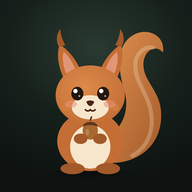
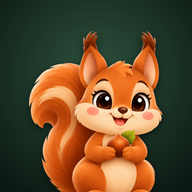
Nouvelle Noisette : illustration détourée, 3 expressions, icône et écran de lancement
Claude-Session: https://claude.ai/code/session_014Qi6w7k6VYht79wz9369HK

diff --git a/www/js/noisette.js b/www/js/noisette.js
@@ -1,129 +1,47 @@
-// Noisette — la mascotte de Planque (écureuil original, SVG animé).
+// Noisette — la mascotte de Planque.
+// Trois expressions (yeux ouverts, endormie, contente) superposées ; l'état choisit laquelle
+// est visible et quelle animation joue.
 // États : sleep (dort), awake (éveillée), think (réfléchit), stash (planque), happy (contente).
 // Règle de sécurité : ses réactions ne dépendent JAMAIS du coffre ouvert (vrai ou leurre).
 
-let uid = 0;
+const IMG = 'img/noisette/';
 
-export function noisetteSVG({ state = 'sleep', size = 180, label = 'Noisette, l’écureuil de Planque' } = {}) {
-  const id = `nz${++uid}`;
+export function noisetteHTML({ state = 'sleep', size = 160, label = 'Noisette, l’écureuil de Planque' } = {}) {
   return `
-<svg class="noisette is-${state}" viewBox="0 0 200 200" width="${size}" height="${size}" role="img" aria-label="${label}">
-  <defs>
-    <linearGradient id="${id}-tail" x1="0" y1="0" x2="1" y2="1">
-      <stop offset="0" stop-color="#E39552"/>
-      <stop offset="1" stop-color="#A3592A"/>
-    </linearGradient>
-    <radialGradient id="${id}-head" cx=".42" cy=".38" r=".75">
-      <stop offset="0" stop-color="#DE8A4B"/>
-      <stop offset="1" stop-color="#BF6A32"/>
-    </radialGradient>
-    <radialGradient id="${id}-shadow" cx=".5" cy=".5" r=".5">
-      <stop offset="0" stop-color="#000" stop-opacity=".35"/>
-      <stop offset="1" stop-color="#000" stop-opacity="0"/>
-    </radialGradient>
-  </defs>
-
-  <ellipse class="nz-shadow" cx="100" cy="190" rx="62" ry="8" fill="url(#${id}-shadow)"/>
-
-  <g class="nz-tail">
-    <path d="M112 176 C150 182 186 160 186 118 C186 86 162 76 164 52 C166 36 180 30 188 40
-             C192 20 170 8 152 18 C130 30 132 60 140 86 C148 112 138 140 106 152 Z"
-          fill="url(#${id}-tail)"/>
-    <path d="M150 168 C172 156 178 132 172 108 C166 86 152 74 154 52 C156 40 166 32 176 34"
-          fill="none" stroke="#F6E6CC" stroke-opacity=".28" stroke-width="5" stroke-linecap="round"/>
-  </g>
-
-  <g class="nz-body">
-    <ellipse cx="98" cy="150" rx="41" ry="37" fill="#C46E35"/>
-    <ellipse cx="98" cy="157" rx="25" ry="27" fill="#F6E6CC"/>
-    <ellipse cx="76" cy="184" rx="15" ry="7" fill="#A3592A"/>
-    <ellipse cx="120" cy="184" rx="15" ry="7" fill="#A3592A"/>
-
-    <g class="nz-head">
-      <g class="nz-ear nz-ear-l">
-        <path d="M66 74 C58 58 56 42 60 30 C70 36 80 48 86 62 Z" fill="#C46E35"/>
-        <path d="M68 66 C64 56 63 46 65 39 C71 44 76 52 79 60 Z" fill="#E9A08A" opacity=".8"/>
-        <path d="M59 33 C55 25 56 17 61 11 C61 18 64 25 67 31 Z" fill="#A3592A"/>
-      </g>
-      <g class="nz-ear nz-ear-r">
-        <path d="M130 74 C138 58 140 42 136 30 C126 36 116 48 110 62 Z" fill="#C46E35"/>
-        <path d="M128 66 C132 56 133 46 131 39 C125 44 120 52 117 60 Z" fill="#E9A08A" opacity=".8"/>
-        <path d="M137 33 C141 25 140 17 135 11 C135 18 132 25 129 31 Z" fill="#A3592A"/>
-      </g>
-
-      <ellipse cx="98" cy="93" rx="43" ry="37" fill="url(#${id}-head)"/>
-      <ellipse class="nz-pouch nz-pouch-l" cx="68" cy="108" rx="14" ry="11" fill="#D27D40"/>
-      <ellipse class="nz-pouch nz-pouch-r" cx="128" cy="108" rx="14" ry="11" fill="#D27D40"/>
-      <ellipse cx="98" cy="108" rx="23" ry="15" fill="#F6E6CC"/>
-      <ellipse cx="74" cy="104" rx="7.5" ry="4.5" fill="#E8907A" opacity=".55"/>
-      <ellipse cx="122" cy="104" rx="7.5" ry="4.5" fill="#E8907A" opacity=".55"/>
-
-      <g class="nz-eyes">
-        <g class="nz-eye"><g class="nz-look">
-          <ellipse cx="82" cy="91" rx="7.5" ry="8.5" fill="#24170F"/>
-          <circle cx="79.6" cy="87.8" r="2.7" fill="#fff"/>
-          <circle cx="84.5" cy="94" r="1.1" fill="#fff" opacity=".7"/>
-        </g></g>
-        <g class="nz-eye"><g class="nz-look">
-          <ellipse cx="114" cy="91" rx="7.5" ry="8.5" fill="#24170F"/>
-          <circle cx="111.6" cy="87.8" r="2.7" fill="#fff"/>
-          <circle cx="116.5" cy="94" r="1.1" fill="#fff" opacity=".7"/>
-        </g></g>
-      </g>
-      <g class="nz-lids" fill="none" stroke="#24170F" stroke-width="3" stroke-linecap="round">
-        <path d="M74 92 Q82 98 90 92"/>
-        <path d="M106 92 Q114 98 122 92"/>
-      </g>
-      <g class="nz-joy" fill="none" stroke="#24170F" stroke-width="3.2" stroke-linecap="round">
-        <path d="M75 94 Q82 85 89 94"/>
-        <path d="M107 94 Q114 85 121 94"/>
-      </g>
-
-      <path d="M93 101 Q98 98 103 101 Q101 106 98 106.5 Q95 106 93 101 Z" fill="#4A2414"/>
-      <path class="nz-mouth" d="M92 111 Q95 114 98 111 Q101 114 104 111" fill="none" stroke="#4A2414" stroke-width="2" stroke-linecap="round"/>
-    </g>
-    <g class="nz-nut">
-      <ellipse cx="98" cy="137" rx="9.5" ry="11" fill="#A8692F"/>
-      <path d="M88.5 132 C90 124 106 124 107.5 132 C102 129.5 94 129.5 88.5 132 Z" fill="#5E3A1C"/>
-      <path d="M98 124 l1.5 -4" stroke="#5E3A1C" stroke-width="2" stroke-linecap="round"/>
-      <ellipse cx="94.5" cy="139" rx="2.2" ry="4" fill="#fff" opacity=".18"/>
-    </g>
-    <ellipse class="nz-paw" cx="86" cy="147" rx="8.5" ry="6.5" fill="#A3592A"/>
-    <ellipse class="nz-paw" cx="110" cy="147" rx="8.5" ry="6.5" fill="#A3592A"/>
-
-  </g>
-
-  <g class="nz-zzz" fill="#F6E6CC" font-family="ui-rounded, -apple-system, system-ui" font-weight="800">
-    <text x="140" y="62" font-size="14">z</text>
-    <text x="152" y="46" font-size="18">z</text>
-    <text x="166" y="28" font-size="22">z</text>
-  </g>
-</svg>`;
+<div class="noisette is-${state}" style="--nz:${size}px" role="img" aria-label="${label}">
+  <div class="nz-look"><div class="nz-fig">
+    <img class="nz-awake" src="${IMG}awake.webp" alt="" draggable="false" decoding="async">
+    <img class="nz-sleep" src="${IMG}sleep.webp" alt="" draggable="false" decoding="async">
+    <img class="nz-joy" src="${IMG}joy.webp" alt="" draggable="false" decoding="async">
+  </div></div>
+  <div class="nz-zzz" aria-hidden="true"><span>z</span><span>z</span><span>z</span></div>
+</div>`;
 }
+
+const find = (el) => (el?.matches?.('.noisette') ? el : el?.querySelector?.('.noisette'));
 
 /** Change l'état d'une Noisette déjà affichée. */
 export function setNoisette(el, state) {
-  const svg = el?.matches?.('svg.noisette') ? el : el?.querySelector?.('svg.noisette');
-  if (!svg) return;
-  svg.classList.remove('is-sleep', 'is-awake', 'is-think', 'is-stash', 'is-happy');
-  svg.classList.add(`is-${state}`);
+  const n = find(el);
+  if (!n) return;
+  n.classList.remove('is-sleep', 'is-awake', 'is-think', 'is-stash', 'is-happy');
+  // relancer l'animation même si l'état ne change pas (ex. deux « contente » d'affilée)
+  void n.offsetWidth;
+  n.classList.add(`is-${state}`);
 }
 
-/** Les yeux de Noisette suivent un point (coordonnées écran). */
+/** Noisette se penche vers un point (coordonnées écran). */
 export function lookAt(el, x, y) {
-  const svg = el?.matches?.('svg.noisette') ? el : el?.querySelector?.('svg.noisette');
-  if (!svg) return;
-  const r = svg.getBoundingClientRect();
-  const cx = r.left + r.width / 2;
-  const cy = r.top + r.height * 0.45;
-  const dx = Math.max(-1, Math.min(1, (x - cx) / 160));
-  const dy = Math.max(-1, Math.min(1, (y - cy) / 160));
-  svg.querySelectorAll('.nz-look').forEach((g) => {
-    g.style.transform = `translate(${(dx * 2.6).toFixed(2)}px, ${(dy * 2.4).toFixed(2)}px)`;
-  });
+  const n = find(el);
+  if (!n) return;
+  const r = n.getBoundingClientRect();
+  const dx = Math.max(-1, Math.min(1, (x - (r.left + r.width / 2)) / 180));
+  const dy = Math.max(-1, Math.min(1, (y - (r.top + r.height * 0.4)) / 220));
+  const look = n.querySelector('.nz-look');
+  look.style.transform = `translate(${(dx * 4).toFixed(1)}%, ${(dy * 2).toFixed(1)}%) rotate(${(dx * 5).toFixed(1)}deg)`;
 }
 
 export function resetLook(el) {
-  const svg = el?.matches?.('svg.noisette') ? el : el?.querySelector?.('svg.noisette');
-  svg?.querySelectorAll('.nz-look').forEach((g) => { g.style.transform = ''; });
+  const look = find(el)?.querySelector('.nz-look');
+  if (look) look.style.transform = '';
 }

diff --git a/www/css/app.css b/www/css/app.css
@@ -281,60 +281,59 @@ h3 { font-size: 22px; line-height: 28px; letter-spacing: .35px; }
 @keyframes shake { 20%, 60% { transform: translateX(-7px); } 40%, 80% { transform: translateX(7px); } }
 
 /* ---------- Noisette (mascotte) ---------- */
-.noisette { overflow: visible; display: block; }
-.noisette * { transform-box: fill-box; }
-.noisette .nz-tail { transform-origin: 10% 90%; animation: nz-tail 4.5s ease-in-out infinite; }
-.noisette .nz-body { transform-origin: 50% 100%; }
-.noisette .nz-head { transform-origin: 50% 85%; transition: transform .4s var(--ease); }
-.noisette .nz-ear { transform-origin: 50% 100%; }
-.noisette .nz-eye { transform-origin: center; }
-.noisette .nz-look { transition: transform .12s linear; }
-.noisette .nz-lids, .noisette .nz-joy, .noisette .nz-zzz { opacity: 0; transition: opacity .25s; }
-.noisette .nz-eyes { transition: opacity .2s; }
-.noisette .nz-pouch { transform-origin: center; transform: scale(.4); transition: transform .35s var(--ease); }
-.noisette .nz-nut { transform-origin: center; transition: transform .4s var(--ease), opacity .3s; }
+.noisette { position: relative; display: block; width: var(--nz, 160px); height: var(--nz, 160px); flex: none; }
+.noisette::before { /* ombre au sol */
+  content: ''; position: absolute; left: 22%; right: 14%; bottom: -3%; height: 8%;
+  background: radial-gradient(closest-side, rgba(0, 0, 0, .45), transparent); border-radius: 50%;
+}
+.nz-look { position: absolute; inset: 0; transition: transform .14s linear; transform-origin: 50% 100%; }
+.nz-fig { position: absolute; inset: 0; transform-origin: 55% 100%; transition: transform .45s var(--ease); }
+.nz-fig img {
+  position: absolute; inset: 0; width: 100%; height: 100%; object-fit: contain;
+  -webkit-user-drag: none; user-select: none; pointer-events: none; transition: opacity .18s;
+}
+.nz-sleep, .nz-joy { opacity: 0; }
+.nz-zzz { position: absolute; right: -24%; top: -6%; width: 36%; height: 38%; pointer-events: none; opacity: 0; transition: opacity .3s; }
+.nz-zzz span {
+  position: absolute; color: #F6E6CC; font: 800 calc(var(--nz, 160px) * .1)/1 ui-rounded, -apple-system, system-ui;
+  text-shadow: 0 1px 4px rgba(0, 0, 0, .5); opacity: 0;
+}
+.nz-zzz span:nth-child(1) { left: 0; bottom: 0; }
+.nz-zzz span:nth-child(2) { left: 32%; bottom: 34%; font-size: calc(var(--nz, 160px) * .13); }
+.nz-zzz span:nth-child(3) { left: 66%; bottom: 68%; font-size: calc(var(--nz, 160px) * .16); }
 
-.noisette.is-sleep .nz-eyes { opacity: 0; }
-.noisette.is-sleep .nz-lids { opacity: 1; }
-.noisette.is-sleep .nz-body { animation: nz-breathe 3.6s ease-in-out infinite; }
-.noisette.is-sleep .nz-head { transform: rotate(-4deg) translateY(2px); }
+.noisette.is-sleep .nz-awake { opacity: 0; }
+.noisette.is-sleep .nz-sleep { opacity: 1; }
+.noisette.is-sleep .nz-fig { transform: rotate(-3deg); animation: nz-breathe 3.6s ease-in-out infinite; }
 .noisette.is-sleep .nz-zzz { opacity: 1; }
-.noisette.is-sleep .nz-zzz text { animation: nz-z 3s ease-in-out infinite; opacity: 0; }
-.noisette.is-sleep .nz-zzz text:nth-child(2) { animation-delay: .5s; }
-.noisette.is-sleep .nz-zzz text:nth-child(3) { animation-delay: 1s; }
+.noisette.is-sleep .nz-zzz span { animation: nz-z 3s ease-in-out infinite; }
+.noisette.is-sleep .nz-zzz span:nth-child(2) { animation-delay: .5s; }
+.noisette.is-sleep .nz-zzz span:nth-child(3) { animation-delay: 1s; }
 
-.noisette.is-awake .nz-eye { animation: nz-blink 4.2s infinite; }
-.noisette.is-awake .nz-ear { animation: nz-ear 5s ease-in-out infinite; }
+.noisette.is-awake .nz-fig { animation: nz-idle 4s ease-in-out infinite; }
+.noisette.is-awake .nz-sleep { animation: nz-blink 4.2s infinite; }
 
-.noisette.is-think .nz-head { animation: nz-tilt 1.1s ease-in-out infinite; }
-.noisette.is-think .nz-ear-l { animation: nz-twitch .55s ease-in-out infinite; }
-.noisette.is-think .nz-ear-r { animation: nz-twitch .55s ease-in-out .27s infinite; }
-.noisette.is-think .nz-look { transform: translate(1.5px, -2.5px); }
+.noisette.is-think .nz-fig { animation: nz-tilt 1.1s ease-in-out infinite; }
+.noisette.is-think .nz-look { transform: translateY(-2%); }
 
-.noisette.is-stash .nz-pouch { transform: scale(1.12); }
-.noisette.is-stash .nz-nut { animation: nz-gobble 1.2s var(--ease) infinite; }
-.noisette.is-stash .nz-body { animation: nz-munch .3s ease-in-out infinite; }
-.noisette.is-stash .nz-eye { transform: scaleY(.55); }
+.noisette.is-stash .nz-fig { animation: nz-munch .32s ease-in-out infinite; }
+.noisette.is-stash .nz-sleep { animation: nz-blink 1.6s infinite; }
 
-.noisette.is-happy .nz-eyes { opacity: 0; }
+.noisette.is-happy .nz-awake { opacity: 0; }
 .noisette.is-happy .nz-joy { opacity: 1; }
-.noisette.is-happy .nz-body { animation: nz-hop .7s var(--ease) 2; }
-.noisette.is-happy .nz-tail { animation: nz-wag .35s ease-in-out 4; }
+.noisette.is-happy .nz-fig { animation: nz-hop .7s var(--ease) 2; }
 
-@keyframes nz-tail { 0%, 100% { transform: rotate(0); } 50% { transform: rotate(-4deg); } }
-@keyframes nz-wag { 0%, 100% { transform: rotate(0); } 50% { transform: rotate(-9deg); } }
-@keyframes nz-breathe { 0%, 100% { transform: scale(1, 1); } 50% { transform: scale(1.015, 1.03); } }
+@keyframes nz-breathe { 0%, 100% { transform: rotate(-3deg) scale(1, 1); } 50% { transform: rotate(-3deg) scale(1.012, 1.028); } }
+@keyframes nz-idle { 0%, 100% { transform: scale(1, 1); } 50% { transform: scale(1.006, 1.014); } }
 @keyframes nz-z { 0% { opacity: 0; transform: translate(-6px, 8px); } 30% { opacity: .9; } 100% { opacity: 0; transform: translate(4px, -10px); } }
-@keyframes nz-blink { 0%, 46%, 50%, 100% { transform: scaleY(1); } 48% { transform: scaleY(.08); } }
-@keyframes nz-ear { 0%, 80%, 100% { transform: rotate(0); } 85% { transform: rotate(-8deg); } 90% { transform: rotate(4deg); } }
-@keyframes nz-twitch { 0%, 100% { transform: rotate(0); } 50% { transform: rotate(-10deg); } }
-@keyframes nz-tilt { 0%, 100% { transform: rotate(-5deg); } 50% { transform: rotate(5deg); } }
-@keyframes nz-gobble { 0% { transform: translateY(0) scale(1); opacity: 1; } 55% { transform: translateY(-26px) scale(.7); opacity: 1; } 70% { transform: translateY(-30px) scale(.3); opacity: 0; } 71% { transform: translateY(6px) scale(1); opacity: 0; } 100% { transform: translateY(0) scale(1); opacity: 1; } }
-@keyframes nz-munch { 0%, 100% { transform: scale(1, 1); } 50% { transform: scale(1.02, .985); } }
-@keyframes nz-hop { 0%, 100% { transform: translateY(0); } 40% { transform: translateY(-14px) scale(1.02, .98); } 70% { transform: translateY(0) scale(1.03, .96); } }
+@keyframes nz-blink { 0%, 45.5%, 49.5%, 100% { opacity: 0; } 46.5%, 48.5% { opacity: 1; } }
+@keyframes nz-tilt { 0%, 100% { transform: rotate(-5deg); } 50% { transform: rotate(4deg); } }
+@keyframes nz-munch { 0%, 100% { transform: scale(1, 1); } 50% { transform: scale(1.025, .975); } }
+@keyframes nz-hop { 0%, 100% { transform: translateY(0); } 40% { transform: translateY(-12%) scale(1.02, .98); } 70% { transform: translateY(0) scale(1.03, .96); } }
 
 @media (prefers-reduced-motion: reduce) {
   .noisette *, .screen, .how { animation: none !important; transition: none !important; }
+  .noisette.is-sleep .nz-zzz span { opacity: .8; }
 }
 
 

diff --git a/www/js/app.js b/www/js/app.js
@@ -1,6 +1,6 @@
 import { Vault, haptic, isNative } from './vault.js';
 import { Forest, MIN_NUTS, strength, forestSVG, miniSVG } from './forest.js';
-import { noisetteSVG, setNoisette, lookAt, resetLook } from './noisette.js';
+import { noisetteHTML, setNoisette, lookAt, resetLook } from './noisette.js';
 import { entropyToWords, wordsToEntropy, countKnown, suggest, choices } from './mnemonic.js';
 
 // ---------------------------------------------------------------------------
@@ -56,7 +56,7 @@ function hydrate(root = document) {
   });
   $$('[data-noisette]', root).forEach((el) => {
     if (el.dataset.hydrated) return;
-    el.innerHTML = noisetteSVG({ state: el.dataset.noisette, size: +el.dataset.size || 160 });
+    el.innerHTML = noisetteHTML({ state: el.dataset.noisette, size: +el.dataset.size || 160 });
     el.dataset.hydrated = '1';
   });
 }

diff --git a/www/index.html b/www/index.html
@@ -10,6 +10,7 @@
   <meta name="apple-mobile-web-app-status-bar-style" content="black-translucent">
   <meta name="apple-mobile-web-app-title" content="Planque">
   <meta name="theme-color" content="#000000">
+  <link rel="icon" href="img/icon-192.png">
   <link rel="apple-touch-icon" href="img/apple-touch-icon.png">
   <link rel="manifest" href="manifest.webmanifest">
   <title>Planque</title>

diff --git a/README.md b/README.md
@@ -8,7 +8,7 @@ Photos, vidéos et documents chiffrés en AES-256 sur l'iPhone. La clé vient de
 ## Ce qui est fait
 
 - **Onboarding** : bienvenue, trois choses à savoir, choix des cachettes (deux fois), phrase de secours avec vérification.
-- **La forêt** : 36 cachettes illustrées (trous du chêne, nichoir, lanterne, lune, terrier, botte…). Noisette se réveille, suit des yeux chaque noisette et juge la solidité du parcours. Même réaction pour tous les parcours.
+- **La forêt** : 36 cachettes illustrées (trous du chêne, nichoir, lanterne, lune, terrier, botte…). Noisette se réveille, se penche vers chaque noisette et juge la solidité du parcours. Même réaction pour tous les parcours.
 - **Phrase de secours** : 12 mots (BIP39, liste française), pour les cachettes oubliées et les changements d'iPhone. Saisie sans accents ni majuscules, avec suggestions.
 - **Face ID** (option) avant la forêt.
 - **Ne rien perdre** : sauvegarde chiffrée en un fichier `.planque` (à ranger dans Fichiers / iCloud Drive), restauration sur n'importe quel iPhone avec la phrase de secours, « Supprimés récemment » pendant 30 jours, remise dans Photos avec les fichiers d'origine, rappel de sauvegarde.
@@ -47,7 +47,8 @@ L'interface tourne avec un coffre **simulé** (WebCrypto + IndexedDB, mêmes rè
 ```
 www/                      Interface (HTML/CSS/JS, sans framework)
   js/app.js               Écrans, galerie, import, visionneuse, réglages
-  js/noisette.js          La mascotte (SVG animé, 5 états)
+  js/noisette.js          La mascotte (3 expressions superposées, 5 états animés)
+  img/noisette/           awake.webp, sleep.webp, joy.webp (fond transparent, 480 px)
   js/forest.js            La forêt et ses 36 cachettes (⚠ ne jamais renuméroter)
   js/mnemonic.js          Phrase de secours (BIP39) ; js/words-fr.js : la liste de mots
   js/vault.js             Pont vers le plugin natif (ou la simulation)
@@ -60,7 +61,7 @@ SECURITE.md               Ce que le chiffrement protège, et ses limites
 
 ## Remplacer Noisette par tes propres visuels
 
-Noisette est un SVG dessiné en code (`www/js/noisette.js`), avec des états animés en CSS (`.is-sleep`, `.is-awake`, `.is-think`, `.is-stash`, `.is-happy` dans `www/css/app.css`). Pour passer à tes vidéos ou images générées, remplace le contenu de `noisetteSVG()` par une balise `<video>`/`<img>` par état : le reste de l'appli appelle seulement `setNoisette(el, 'état')`.
+Noisette, c'est trois images détourées de la même illustration (`www/img/noisette/` : yeux ouverts, endormie, contente), empilées dans `noisetteHTML()` (`www/js/noisette.js`). Les états sont en CSS (`.is-sleep`, `.is-awake`, `.is-think`, `.is-stash`, `.is-happy` dans `www/css/app.css`) : l'état choisit l'expression visible et l'animation (respiration et « z », clignement, tête penchée, mâchonnement, petit saut). Pour passer à des vidéos animées, ajoute une balise `<video>` par état dans `noisetteHTML()` : le reste de l'appli appelle seulement `setNoisette(el, 'état')`. L'icône, l'écran de lancement et le cache de confidentialité utilisent la même illustration.
 L'icône, l'écran de lancement et le cache du sélecteur d'applis sont dans `ios/App/App/Assets.xcassets`.
 
 ## Étapes suivantes
